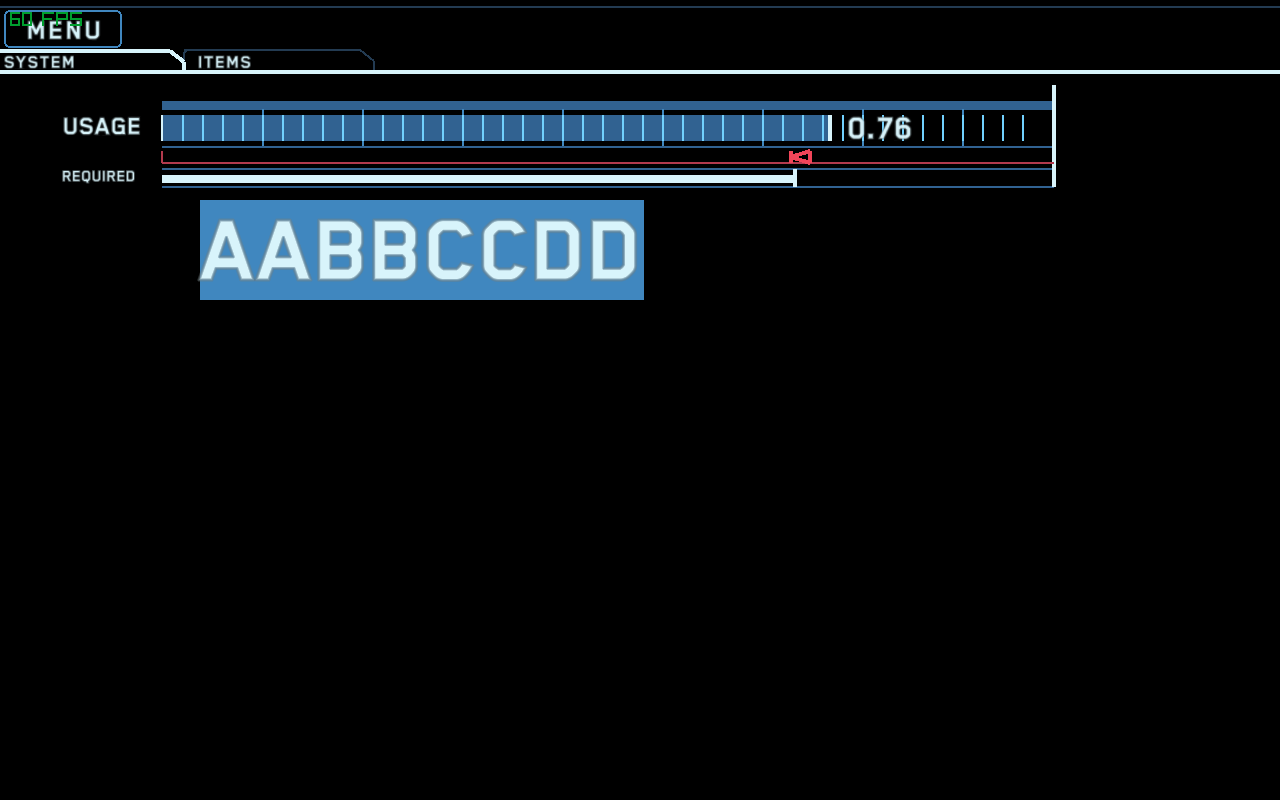
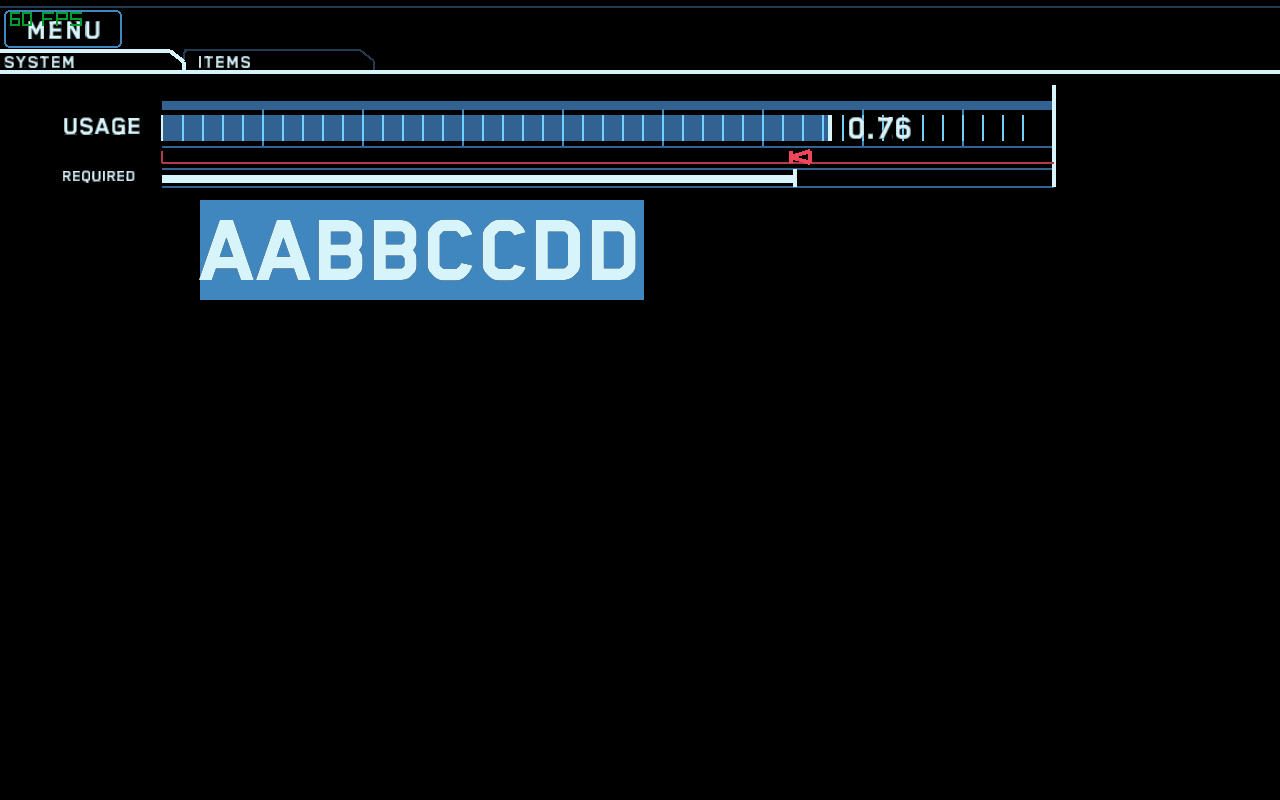
Font size test.

diff --git a/main.cpp b/main.cpp
@@ -46,7 +46,7 @@ int main()
     Font font = {0};
     font.baseSize = 100;
     font.charsCount = 95;
-    font.chars = LoadFontData(fileData, fileSize, 100, 0, 0, FONT_SDF);
+    font.chars = LoadFontData(fileData, fileSize, 100, 0, 0, FONT_DEFAULT);
     Image atlas = GenImageFontAtlas(font.chars, &font.recs, 95, 100, 0, 1);
     font.texture = LoadTextureFromImage(atlas);
     UnloadImage(atlas);
